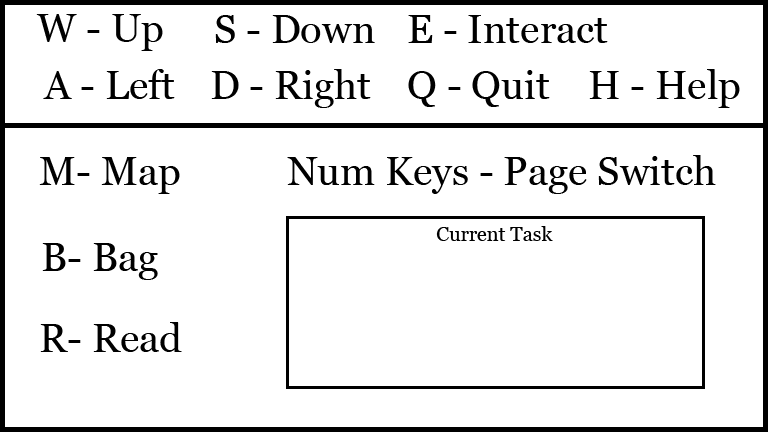
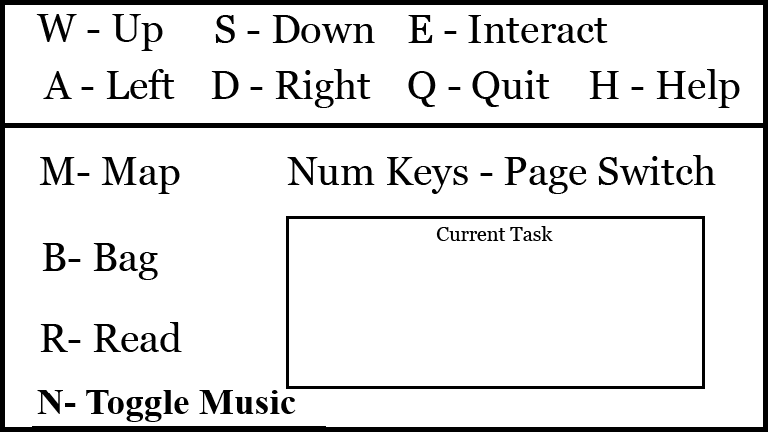
Iss 176 (#183)
* only one panel overlapping, all work now.

* Delete wrongAnswer.wav

* Add files via upload

* Changed the file to .mp3 and fixed html doc. Not finished

* Delete wrongAnswer.mp3

* Add files via upload

* Add files via upload

* Progress with background music playing in chrome

* Added a way to toggle music in most rooms

* Updated help menu to represent toggle feature

* Delete help_menu.png

* Fixed help menu with new png. all rooms toggle music

Changed region(s): [[0.0312, 0.9028, 0.375, 0.9931]]

diff --git a/tagIntro.js b/tagIntro.js
@@ -1,5 +1,6 @@
 class tagIntro extends Phaser.Scene {
 
+    
   constructor() {
     super("TAG_Intro");
     this.quizActive = false;
@@ -8,12 +9,14 @@ class tagIntro extends Phaser.Scene {
     this.paperMoveable = false;
     this.activityOneOpened = false;
     this.helpOpen = false;
+    this.musicToggle = false;
   }
   //load assets in preload()
 
   preload() {
     this.loadAssets();
     this.createImages();
+
   }
   /*
   Welcome to The Accounting Game(TAG) Tutorial!
@@ -32,15 +35,31 @@ Info Panels like these contain important information and lessons that help you p
     this.assignKeybinds();
     this.imagesDraggable();
   }
-
+    
   update(delta) {
     //TEMPORARY FOR TESTING
     //vvvvvvvvvvvvvvvvvvv//
+
+    if (Phaser.Input.Keyboard.JustDown(this.key_N)) {
+
+        document.getElementById("background").play();
+        if (this.musicToggle == false) {
+            document.getElementById("background").play();
+            this.musicToggle = true;
+        }
+        else if (this.musicToggle == true) {
+            document.getElementById("background").pause();
+            this.musicToggle = false;
+        }
+    }
+
+
     if (Phaser.Input.Keyboard.JustDown(this.key_H)) {
     	if (this.help_menu.alpha == 0.0)
             this.helpMenu();
         else
             this.quitInteraction();
+
     }
 
     if (this.activityOneOpened) {
@@ -240,6 +259,7 @@ Info Panels like these contain important information and lessons that help you p
     this.key_2 = this.input.keyboard.addKey(Phaser.Input.Keyboard.KeyCodes.TWO);
     this.key_R = this.input.keyboard.addKey(Phaser.Input.Keyboard.KeyCodes.R);
     this.key_H = this.input.keyboard.addKey(Phaser.Input.Keyboard.KeyCodes.H);
+    this.key_N = this.input.keyboard.addKey(Phaser.Input.Keyboard.KeyCodes.N);
   }
 
   imagesDraggable() {
@@ -273,6 +293,7 @@ Info Panels like these contain important information and lessons that help you p
 
           if(roomProgress < 1000)
             roomProgress = 1000;
+            document.getElementById("background").play();
 
           this.scene.start("Course_Intro");
       }

diff --git a/winners_room.js b/winners_room.js
@@ -21,7 +21,7 @@ class winners_room extends Phaser.Scene {
     this.winnerRoom_activity5Complete = false;
     this.winnerRoom_helpOpen = false;
     this.winnerRoom_counter = 0;
-    
+    this.musicToggle = false;   
   }
   //load assets in preload()
 
@@ -43,6 +43,7 @@ class winners_room extends Phaser.Scene {
   }
 
   update(delta) {
+
     if (this.winnerRoom_key_U.isDown && this.winnerRoom_unlocked == false) {
       this.winnerRoom_activity1Locked = false;
       this.winnerRoom_activity2Locked = false;
@@ -53,6 +54,19 @@ class winners_room extends Phaser.Scene {
       this.winnerRoom_activity5Complete = true;
       this.winnerRoom_unlocked = true;
     }
+
+    if (Phaser.Input.Keyboard.JustDown(this.winnerRoom_key_N)) {
+        document.getElementById("background").play();
+        if (this.musicToggle == false) {
+            document.getElementById("background").play();
+            this.musicToggle = true;
+        }
+        else if (this.musicToggle == true) {
+            document.getElementById("background").pause();
+            this.musicToggle = false;
+        }
+    }
+          
 
     if (Phaser.Input.Keyboard.JustDown(this.winnerRoom_key_M)) {
         if (this.winnerRoom_map.alpha == 0.0) {
@@ -345,6 +359,7 @@ class winners_room extends Phaser.Scene {
     this.winnerRoom_key_6 = this.input.keyboard.addKey(Phaser.Input.Keyboard.KeyCodes.SIX);
     this.winnerRoom_key_R = this.input.keyboard.addKey(Phaser.Input.Keyboard.KeyCodes.R);
     this.winnerRoom_key_H = this.input.keyboard.addKey(Phaser.Input.Keyboard.KeyCodes.H);
+    this.winnerRoom_key_N = this.input.keyboard.addKey(Phaser.Input.Keyboard.KeyCodes.N);
     this.winnerRoom_key_Right = this.input.keyboard.addKey(Phaser.Input.Keyboard.KeyCodes.RIGHT);
     this.winnerRoom_key_Left = this.input.keyboard.addKey(Phaser.Input.Keyboard.KeyCodes.LEFT);
 

diff --git a/buildBlockAct0.js b/buildBlockAct0.js
@@ -10,6 +10,7 @@ class buildBlockAct0 extends Phaser.Scene {
         this.paperCount = 1;
         this.maxPaper = 3;
         this.counter = 0;
+        this.musicToggle = false;
         document.getElementById("background").volume = 0.8;
     }
     //load assets in preload()
@@ -34,6 +35,20 @@ class buildBlockAct0 extends Phaser.Scene {
 	// This runs all the time in a game loop!!
 
 	//	console.log("update: roomProgress="+ roomProgress);
+
+    if (Phaser.Input.Keyboard.JustDown(this.key_N)) {
+        
+        document.getElementById("background").play();
+        if (this.musicToggle == false) {
+            document.getElementById("background").play();
+            this.musicToggle = true;
+        }
+        else if (this.musicToggle == true) {
+            document.getElementById("background").pause();
+            this.musicToggle = false;
+        }
+    }
+
 	if (roomProgress <= 2200) { 
 	    this.quizActive = true; 
 	    //	    this.paperCount = 1;
@@ -367,7 +382,7 @@ class buildBlockAct0 extends Phaser.Scene {
         this.key_3 = this.input.keyboard.addKey(Phaser.Input.Keyboard.KeyCodes.THREE);
         this.key_R = this.input.keyboard.addKey(Phaser.Input.Keyboard.KeyCodes.R);
         this.key_H = this.input.keyboard.addKey(Phaser.Input.Keyboard.KeyCodes.H);
-
+        this.key_N = this.input.keyboard.addKey(Phaser.Input.Keyboard.KeyCodes.N);
 
         this.key_Right = this.input.keyboard.addKey(Phaser.Input.Keyboard.KeyCodes.RIGHT);
         this.key_Left = this.input.keyboard.addKey(Phaser.Input.Keyboard.KeyCodes.LEFT);

diff --git a/buildBlockAct2.js b/buildBlockAct2.js
@@ -6,7 +6,8 @@ class buildBlockAct2 extends Phaser.Scene {
         this.room2b_quizActive = true;
         this.room2b_unlocked = false;
         this.room2b_helpOpen = false;
-	this.room2b_count = 1;
+    	this.room2b_count = 1;
+        this.musicToggle = false;
     }
     //load assets in preload()
 
@@ -28,7 +29,21 @@ class buildBlockAct2 extends Phaser.Scene {
 
     update(delta) {
 	//	console.log("parents room: progress="+roomProgress);
-	if (roomProgress < 2440) { 
+	
+    if (Phaser.Input.Keyboard.JustDown(this.room2b_key_N)) {
+        
+        document.getElementById("background").play();
+        if (this.musicToggle == false) {
+            document.getElementById("background").play();
+            this.musicToggle = true;
+        }
+        else if (this.musicToggle == true) {
+            document.getElementById("background").pause();
+            this.musicToggle = false;
+        }
+    }
+    
+    if (roomProgress < 2440) { 
 	    this.room2b_quizActive = true; 
 	    this.qmark.alpha = 1;
 	    this.setCharacterAlpha(0,0,0,0);
@@ -490,7 +505,7 @@ class buildBlockAct2 extends Phaser.Scene {
         this.room2b_key_5 = this.input.keyboard.addKey(Phaser.Input.Keyboard.KeyCodes.FIVE);
         this.room2b_key_R = this.input.keyboard.addKey(Phaser.Input.Keyboard.KeyCodes.R);
         this.room2b_key_H = this.input.keyboard.addKey(Phaser.Input.Keyboard.KeyCodes.H);
-
+        this.room2b_key_N = this.input.keyboard.addKey(Phaser.Input.Keyboard.KeyCodes.N);
     }
 
     /* imagesDraggable

diff --git a/buildingBlocks.js b/buildingBlocks.js
@@ -13,6 +13,7 @@ class buildingBlocks extends Phaser.Scene {
         this.room2_activitySixOpened = false;
         this.room2_helpOpen = false;
         this.counter = 0;
+        this.musicToggle = false;
         document.getElementById("background").volume = 0.8;
 
     }
@@ -40,6 +41,19 @@ class buildingBlocks extends Phaser.Scene {
     update(delta) {
         //TEMPORARY FOR TESTING
         //vvvvvvvvvvvvvvvvvvv//
+
+        if (Phaser.Input.Keyboard.JustDown(this.room2_key_N)) {
+            document.getElementById("background").play();
+            if (this.musicToggle == false) {
+                document.getElementById("background").play();
+                this.musicToggle = true;
+            }
+            else if (this.musicToggle == true) {
+                document.getElementById("background").pause();
+                this.musicToggle = false;
+            }
+        }
+
         if (Phaser.Input.Keyboard.JustDown(this.room2_key_H)) {
             if (this.room2_help_menu.alpha == 0.0)
                 this.helpMenu();
@@ -438,6 +452,7 @@ class buildingBlocks extends Phaser.Scene {
         this.room2_key_H = this.input.keyboard.addKey(Phaser.Input.Keyboard.KeyCodes.H);
         this.key_Right = this.input.keyboard.addKey(Phaser.Input.Keyboard.KeyCodes.RIGHT);
         this.key_Left = this.input.keyboard.addKey(Phaser.Input.Keyboard.KeyCodes.LEFT);
+        this.room2_key_N = this.input.keyboard.addKey(Phaser.Input.Keyboard.KeyCodes.N);
     }
 
 

diff --git a/courseIntro.js b/courseIntro.js
@@ -9,6 +9,7 @@ class courseIntro extends Phaser.Scene {
         this.helpOpen = false;
         this.holeOpened = false;
         this.counter = 0;
+        this.musicToggle = false;
         document.getElementById("background").volume = 0.8;
     }
     //load assets in preload()
@@ -32,6 +33,18 @@ class courseIntro extends Phaser.Scene {
     update(delta) {
         //TEMPORARY FOR TESTING
         //vvvvvvvvvvvvvvvvvvv//
+
+        if (Phaser.Input.Keyboard.JustDown(this.key_N)) {
+            document.getElementById("background").play();
+            if (this.musicToggle == false) {
+                document.getElementById("background").play();
+                this.musicToggle = true;
+            }
+            else if (this.musicToggle == true) {
+                document.getElementById("background").pause();
+                this.musicToggle = false;
+            }
+        }
 
         if (this.activityOneOpened) {
             this.checkNextPage();
@@ -449,6 +462,7 @@ class courseIntro extends Phaser.Scene {
         this.key_3 = this.input.keyboard.addKey(Phaser.Input.Keyboard.KeyCodes.THREE);
         this.key_R = this.input.keyboard.addKey(Phaser.Input.Keyboard.KeyCodes.R);
         this.key_H = this.input.keyboard.addKey(Phaser.Input.Keyboard.KeyCodes.H);
+        this.key_N = this.input.keyboard.addKey(Phaser.Input.Keyboard.KeyCodes.N);
 
 
         this.key_Right = this.input.keyboard.addKey(Phaser.Input.Keyboard.KeyCodes.RIGHT);

diff --git a/bbActRoom.js b/bbActRoom.js
@@ -6,6 +6,7 @@ class bbActRoom extends Phaser.Scene {
     super("BB_ActRoom");
     this.room2a_helpOpen = false;
     this.room2a_characterMoveable = true;
+    this.musicToggle = false;
   }
   //load assets in preload()
 
@@ -29,11 +30,27 @@ class bbActRoom extends Phaser.Scene {
   update(delta) {
     //TEMPORARY FOR TESTING
     //vvvvvvvvvvvvvvvvvvv//
+
+
+    if (Phaser.Input.Keyboard.JustDown(this.room2a_key_N)) {
+        document.getElementById("background").play();
+        if (this.musicToggle == false) {
+            document.getElementById("background").play();
+            this.musicToggle = true;
+        }
+        else if (this.musicToggle == true) {
+            document.getElementById("background").pause();
+            this.musicToggle = false;
+        }
+    }
+    
+
     if (Phaser.Input.Keyboard.JustDown(this.room2a_key_H)) {
         if (this.room2a_help_menu.alpha == 0.0)
             this.helpMenu();
         else
             this.quitInteraction();
+
     }
 
     if (this.room2a_key_U.isDown) {
@@ -212,6 +229,7 @@ class bbActRoom extends Phaser.Scene {
     this.room2a_key_5 = this.input.keyboard.addKey(Phaser.Input.Keyboard.KeyCodes.FIVE);
     this.room2a_key_R = this.input.keyboard.addKey(Phaser.Input.Keyboard.KeyCodes.R);
     this.room2a_key_H = this.input.keyboard.addKey(Phaser.Input.Keyboard.KeyCodes.H);
+    this.room2a_key_N = this.input.keyboard.addKey(Phaser.Input.Keyboard.KeyCodes.N);
 
   }
 

diff --git a/accountEqn.js b/accountEqn.js
@@ -13,6 +13,7 @@ class accountEqn extends Phaser.Scene {
     this.room3_activityFiveOpened = false;
     this.room3_helpOpen = false;
     this.room3_counter = 0;
+    this.musicToggle = false;
     document.getElementById("background").volume = 0.8;
   }
   //load assets in preload()
@@ -37,6 +38,19 @@ class accountEqn extends Phaser.Scene {
   update(delta) {
     //TEMPORARY FOR TESTING
     //vvvvvvvvvvvvvvvvvvv//
+    
+    if (Phaser.Input.Keyboard.JustDown(this.room3_key_N)) {
+            document.getElementById("background").play();
+            if (this.musicToggle == false) {
+                document.getElementById("background").play();
+                this.musicToggle = true;
+            }
+            else if (this.musicToggle == true) {
+                document.getElementById("background").pause();
+                this.musicToggle = false;
+            }
+    }
+
     if (this.room3_key_H.isDown) {
       this.helpMenu();
     }
@@ -367,7 +381,7 @@ class accountEqn extends Phaser.Scene {
     this.room3_key_H = this.input.keyboard.addKey(Phaser.Input.Keyboard.KeyCodes.H);
     this.room3_key_Right = this.input.keyboard.addKey(Phaser.Input.Keyboard.KeyCodes.RIGHT);
     this.room3_key_Left = this.input.keyboard.addKey(Phaser.Input.Keyboard.KeyCodes.LEFT);
-
+    this.room3_key_N = this.input.keyboard.addKey(Phaser.Input.Keyboard.KeyCodes.N);
   }
 
   /* imagesDraggable

diff --git a/main.js b/main.js
@@ -19,4 +19,5 @@ var activity6Complete = false;
 var characterMoveable = true;
 var roomProgress = 0;
 var wallAlpha = 0.5;
+var musicToggle = false;
 var game = new Phaser.Game(config);
